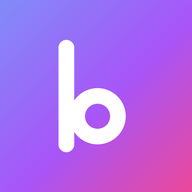
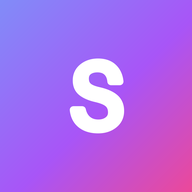
admin, core, pro: rename product from Binders to Scalar
Updates docs (README, SPEC, SECURITY, LANDING, DOCUMENTATION), templates,
favicons/icons, manifests, and remaining code/config references from
Binders to Scalar across all three apps.

Changed region(s): [[0.2812, 0.1875, 0.6562, 0.8125]]

diff --git a/templates/layout.html b/templates/layout.html
@@ -20,9 +20,9 @@
   <meta name="apple-mobile-web-app-capable" content="yes">
   <meta name="mobile-web-app-capable" content="yes">
   <meta name="apple-mobile-web-app-status-bar-style" content="black-translucent">
-  <meta name="apple-mobile-web-app-title" content="Binders Core">
+  <meta name="apple-mobile-web-app-title" content="Scalar Core">
   <meta name="theme-color" content="#0a0a0b">
-  <!-- Apply the saved theme (localStorage 'binders-core:theme', set live by
+  <!-- Apply the saved theme (localStorage 'scalar-core:theme', set live by
        the Settings page) before the stylesheets below load, so the page
        paints in the right palette from the first frame instead of flashing
        dark then switching to light. Must stay inline/synchronous and come
@@ -31,7 +31,7 @@
   <script>
     (function () {
       try {
-        var t = localStorage.getItem('binders-core:theme');
+        var t = localStorage.getItem('scalar-core:theme');
         if (t !== 'light' && t !== 'dark') t = 'dark';
         document.documentElement.style.colorScheme = t;
         document.documentElement.style.background = (t === 'light') ? '#f7f7f8' : '#0a0a0b';

diff --git a/templates/settings.html b/templates/settings.html
@@ -78,7 +78,7 @@
 %end
 
 <script>
-  // Theme preference is client-only (localStorage 'binders-core:theme');
+  // Theme preference is client-only (localStorage 'scalar-core:theme');
   // layout.html's <head> script applies it to <html> before first paint —
   // see that file for why "the color-scheme actually in effect" (not a
   // separate data-theme attribute) is the single source of truth here.
@@ -86,7 +86,7 @@
   (() => {
     const group = document.querySelector('[data-theme-toggle]');
     if (!group) return;
-    const KEY = 'binders-core:theme';
+    const KEY = 'scalar-core:theme';
     const options = [...group.querySelectorAll('[data-theme-value]')];
 
     const current = () => document.documentElement.style.colorScheme || 'dark';

diff --git a/utils.py b/utils.py
@@ -43,7 +43,7 @@ _SESSION_ENVIRON_KEY = "templateapp.session"
 def _secret_key() -> str:
     # Re-read on each call (cheap) so a freshly-edited .env is picked up
     # under dev-server reload without restarting the process.
-    return os.environ.get("SECRET_KEY", "binders-core-dev-secret-change-in-production")
+    return os.environ.get("SECRET_KEY", "scalar-core-dev-secret-change-in-production")
 
 
 def _b64encode(raw: bytes) -> str:
@@ -403,7 +403,7 @@ class Mailer:
                 # a bare 403 with no JSON body, easy to mistake for a Resend
                 # API error (invalid key, unverified domain, ...) instead of
                 # what it actually is. Any non-default value clears it.
-                "User-Agent": "Binders/1.0",
+                "User-Agent": "Scalar/1.0",
             },
             method="POST",
         )

diff --git a/DOCUMENTATION.md b/DOCUMENTATION.md
@@ -1,4 +1,4 @@
-# Binders Core — Feature Documentation
+# Scalar Core — Feature Documentation
 
 This describes what's actually built, for a person (or an agent) picking up
 this project without prior context. Code comments cover *why* a given line
@@ -256,7 +256,7 @@ notification still goes out either way.
 ## Interface & behavior
 
 - **Theme**: dark by default; the Settings toggle writes
-  `localStorage['binders-core:theme']` and sets `document.documentElement
+  `localStorage['scalar-core:theme']` and sets `document.documentElement
   .style.colorScheme`. `style.css`'s `:root` tokens are all defined with CSS
   `light-dark()`, which resolves off that `color-scheme` value — flipping it
   is the entire retheme, no second `[data-theme]` override block to keep in

diff --git a/README.md b/README.md
@@ -1,4 +1,4 @@
-# Binders Core
+# Scalar Core
 
 A small single-tenant CRM template — Clients, Tasks, comments, attachments,
 notifications, and a read/write **Ask AI** chat assistant — meant as a
